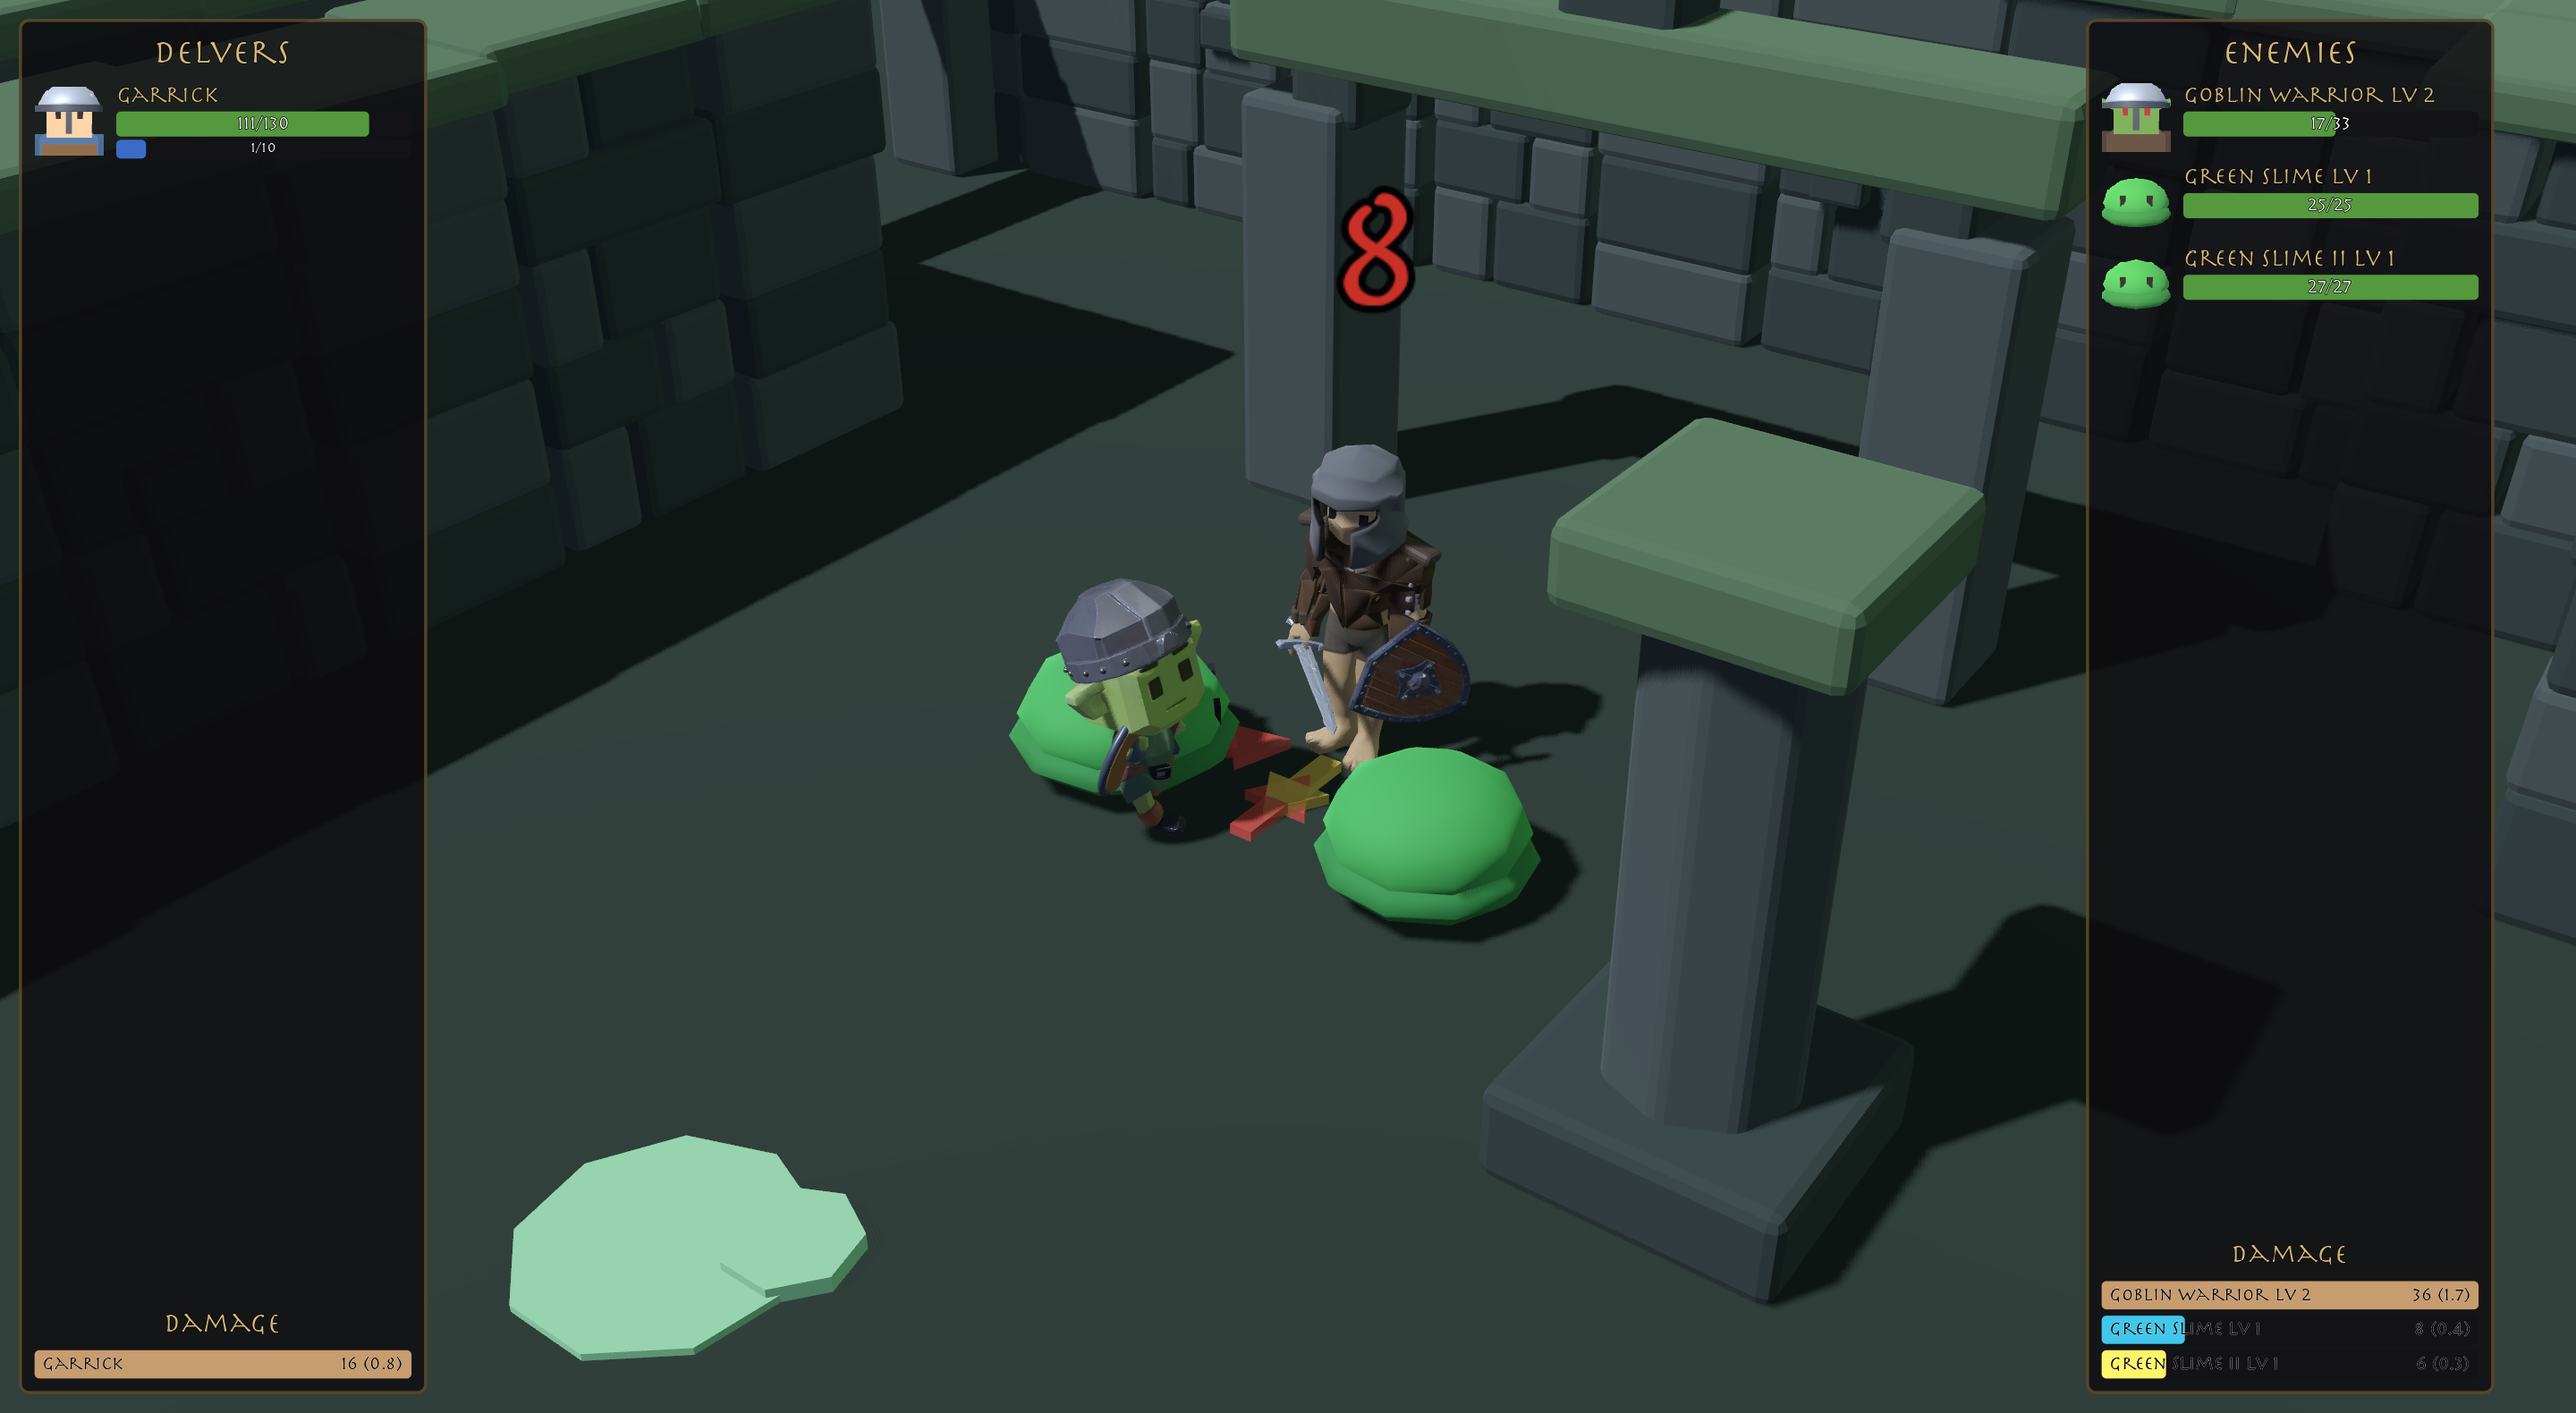
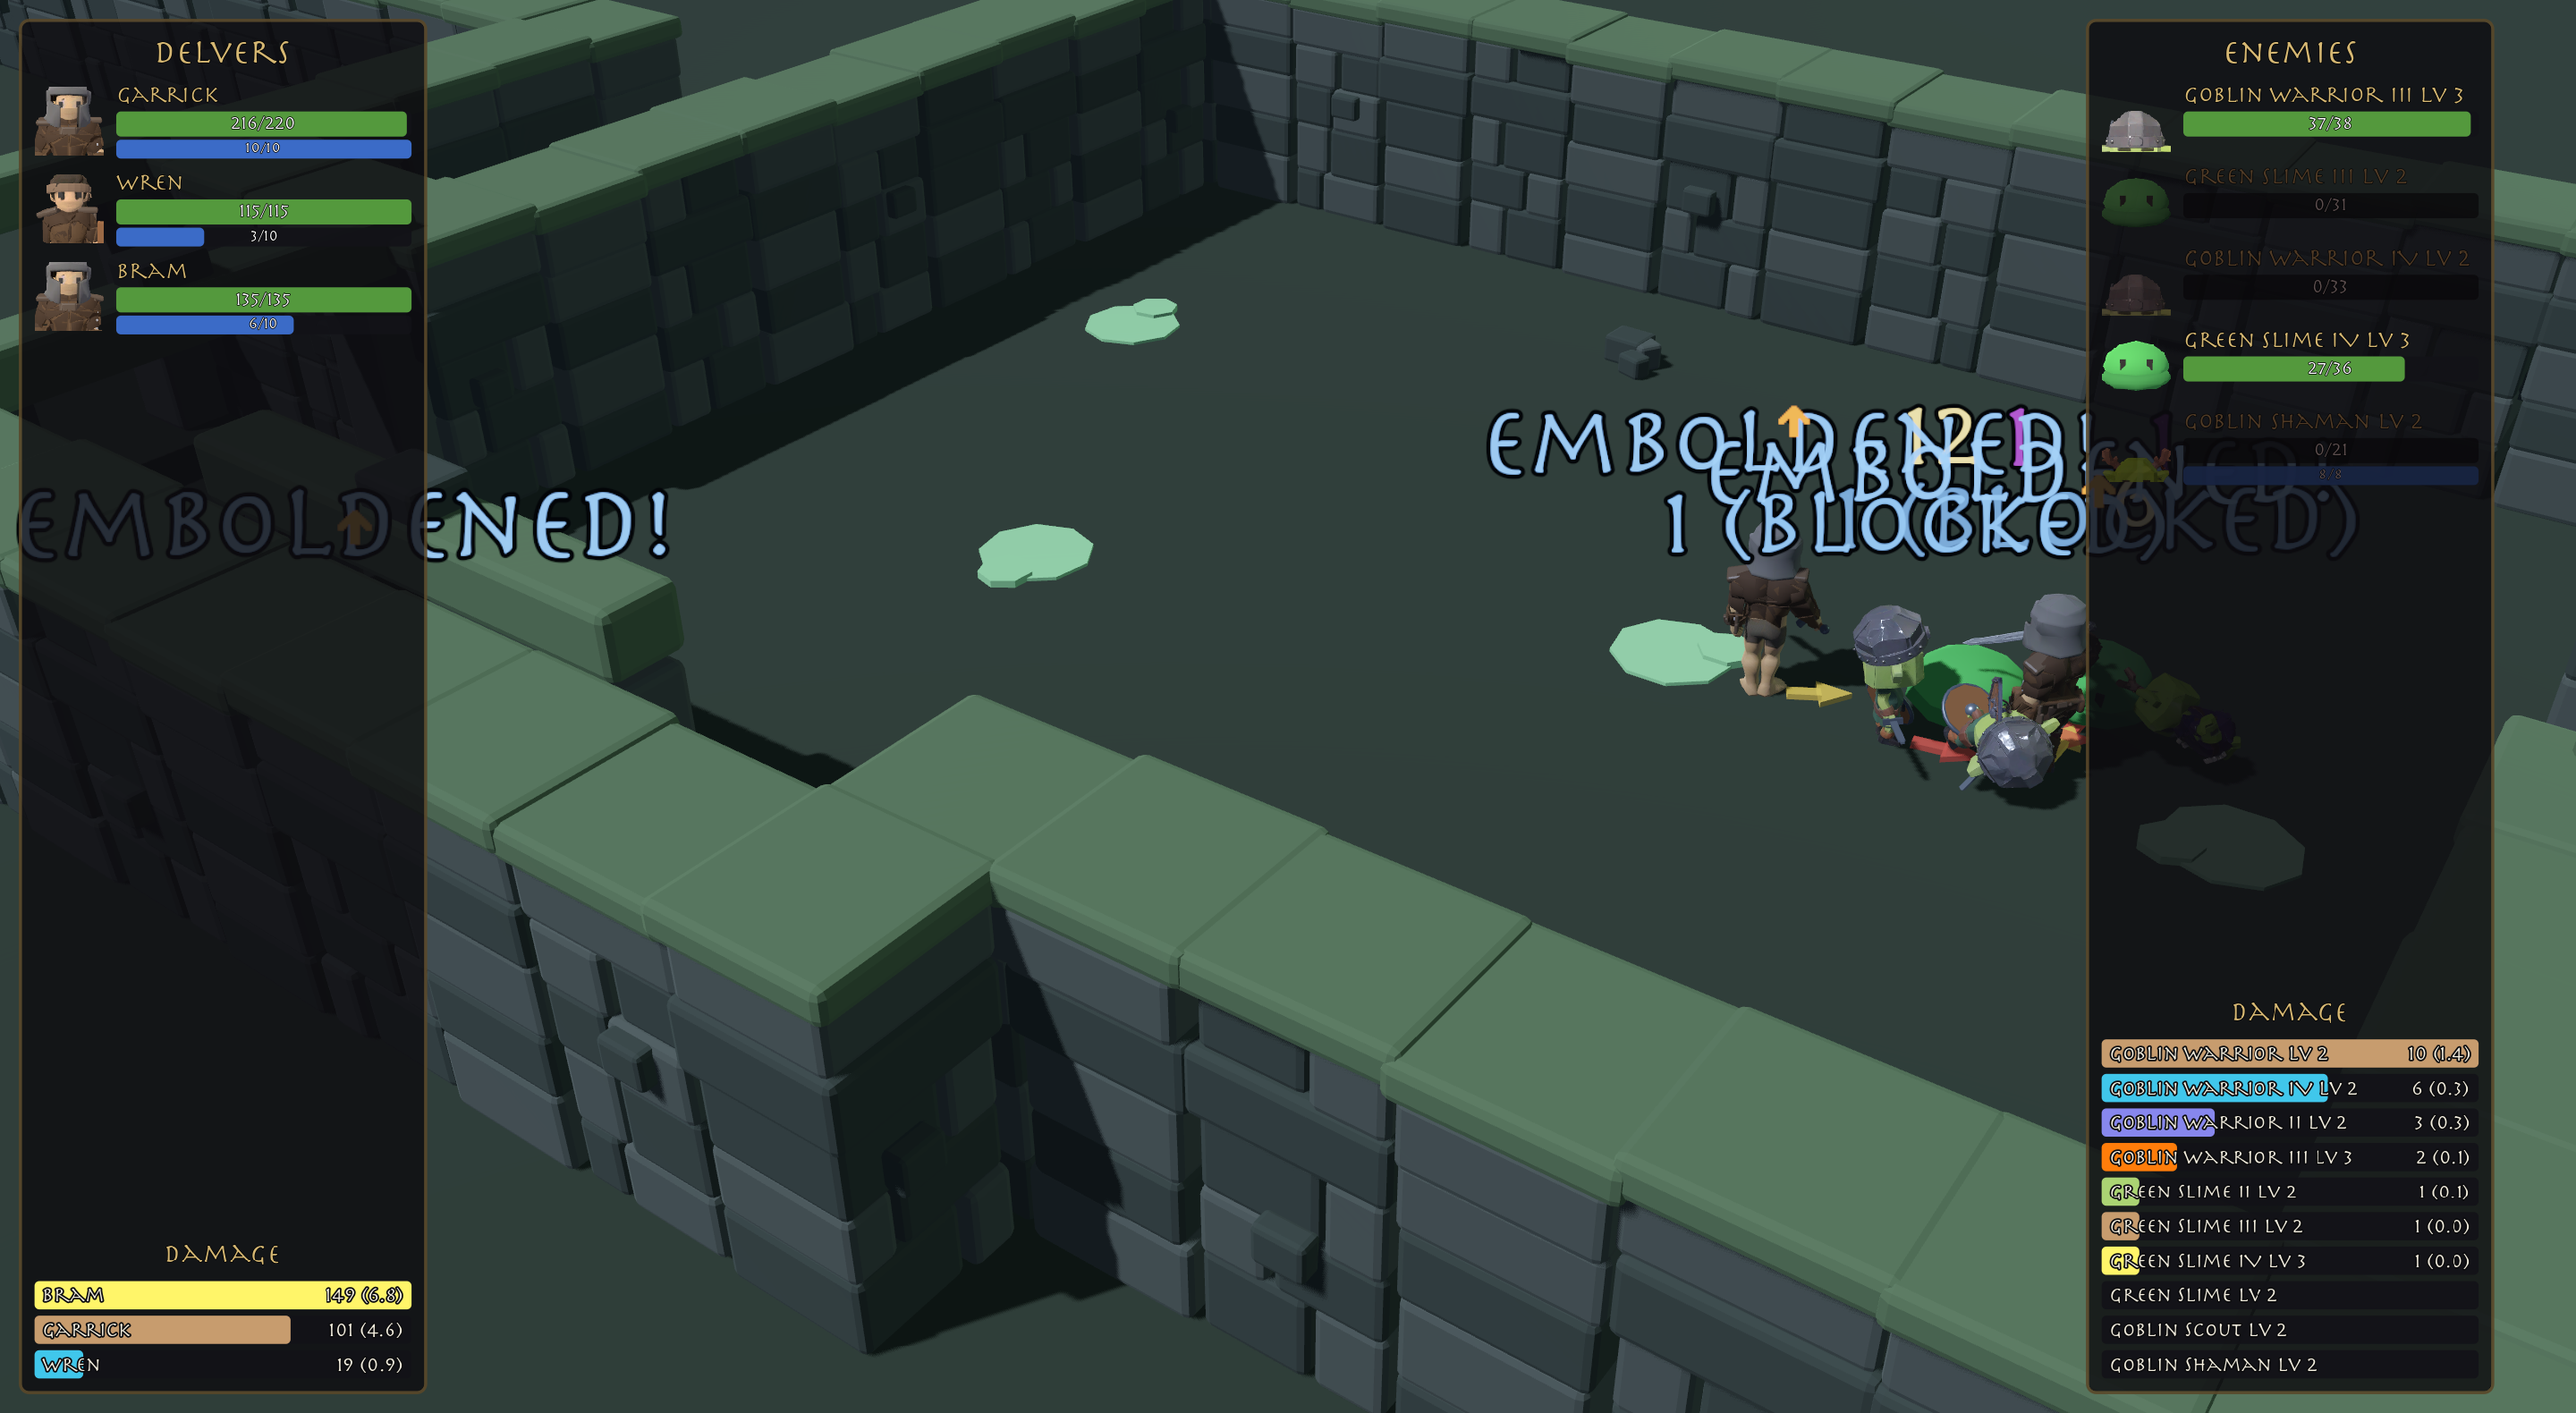
Playtest round two: reactions, honest meters, a king worth the name.
Bodies answer contact now - hits jolt, dodges sidestep, blocks brace
- and the sidebar portraits finally show who we are: rendered from
the real models, hero and goblin alike. The camera opens on the
party at the door instead of the middle of the map, banners save
themselves for rooms that deserve them, and DPS clocks freeze at
death so the numbers stay honest.

Balance and feel: the mid-boss hold fields three fewer bodies while
the Slime King grows into his crown (+45 hp, +2 attack, adds at
court); frostforged chills the sword arm as hard as the feet; Renew
mends once a beat, quietly, instead of chiming every half second.
The spider death is a crunch now, not a screech; the mastery tooltip
fits; the guild's Restored badge reads horizontally again.

One float-drift lesson: 20 ticks of 0.2 sum to 1.9999 - thresholds
get epsilons. 46/46 tests.

diff --git a/CHANGELOG.md b/CHANGELOG.md
@@ -5,6 +5,12 @@ Notable changes per pull request. Newest first.
 ## The Continuous Dungeon — Phase A *(open)*
 
 ### Added
+- **Contact reactions**: bodies answer the fight - a jolt away from
+  a landed hit (bigger on crits), a quick sidestep on a dodge, a
+  small brace on a block. Decaying offsets, no new animations needed.
+- **Portraits show who we are now**: hero and enemy sidebar portraits
+  render from the actual models - Garrick's helmet, Wren's hood, the
+  goblins' own faces - instead of the old procedural rigs.
 - **Dual Wield mastery**: fighting with a weapon in each hand now
   trains its own discipline - Ambidexterity, Twin Fangs, Off-Hand
   Training, Blade Dance (passives; its unique techniques wait for
@@ -201,6 +207,23 @@ Notable changes per pull request. Newest first.
   fitted model covers the region.
 
 ### Changed
+- Frostforged chills the sword arm too: chilled targets swing 20%
+  slower for the duration, not just walk slower.
+- Renew ticks in whole beats (about one mend per second) and its
+  ticks are quiet - small numbers, no chime, no bloom. The full
+  effect stays for real casts.
+- Mid-boss packs trimmed by three bodies; the Slime King grew into
+  his crown (+45 health, +2 attack) and holds court with adds.
+- Room banners only announce rooms worth announcing (entrance,
+  landmark, mid-boss hold, boss lair) - ordinary rooms just show
+  their name in the clear-toast.
+- The battle camera opens on the party at the dungeon door, not the
+  middle of the map.
+- DPS meters freeze a combatant's clock at death - numbers stop
+  converging to zero.
+- The spider death rerolled: wet crunch and curling legs, no screech.
+- The mastery tooltip fits its panel; the Guild's "Restored" badge
+  no longer folds into a vertical ribbon.
 - Dead enemies now actually fade off the roster (the despawn was
   listening to the wrong event field) - the damage meter no longer
   gets pushed off screen.
